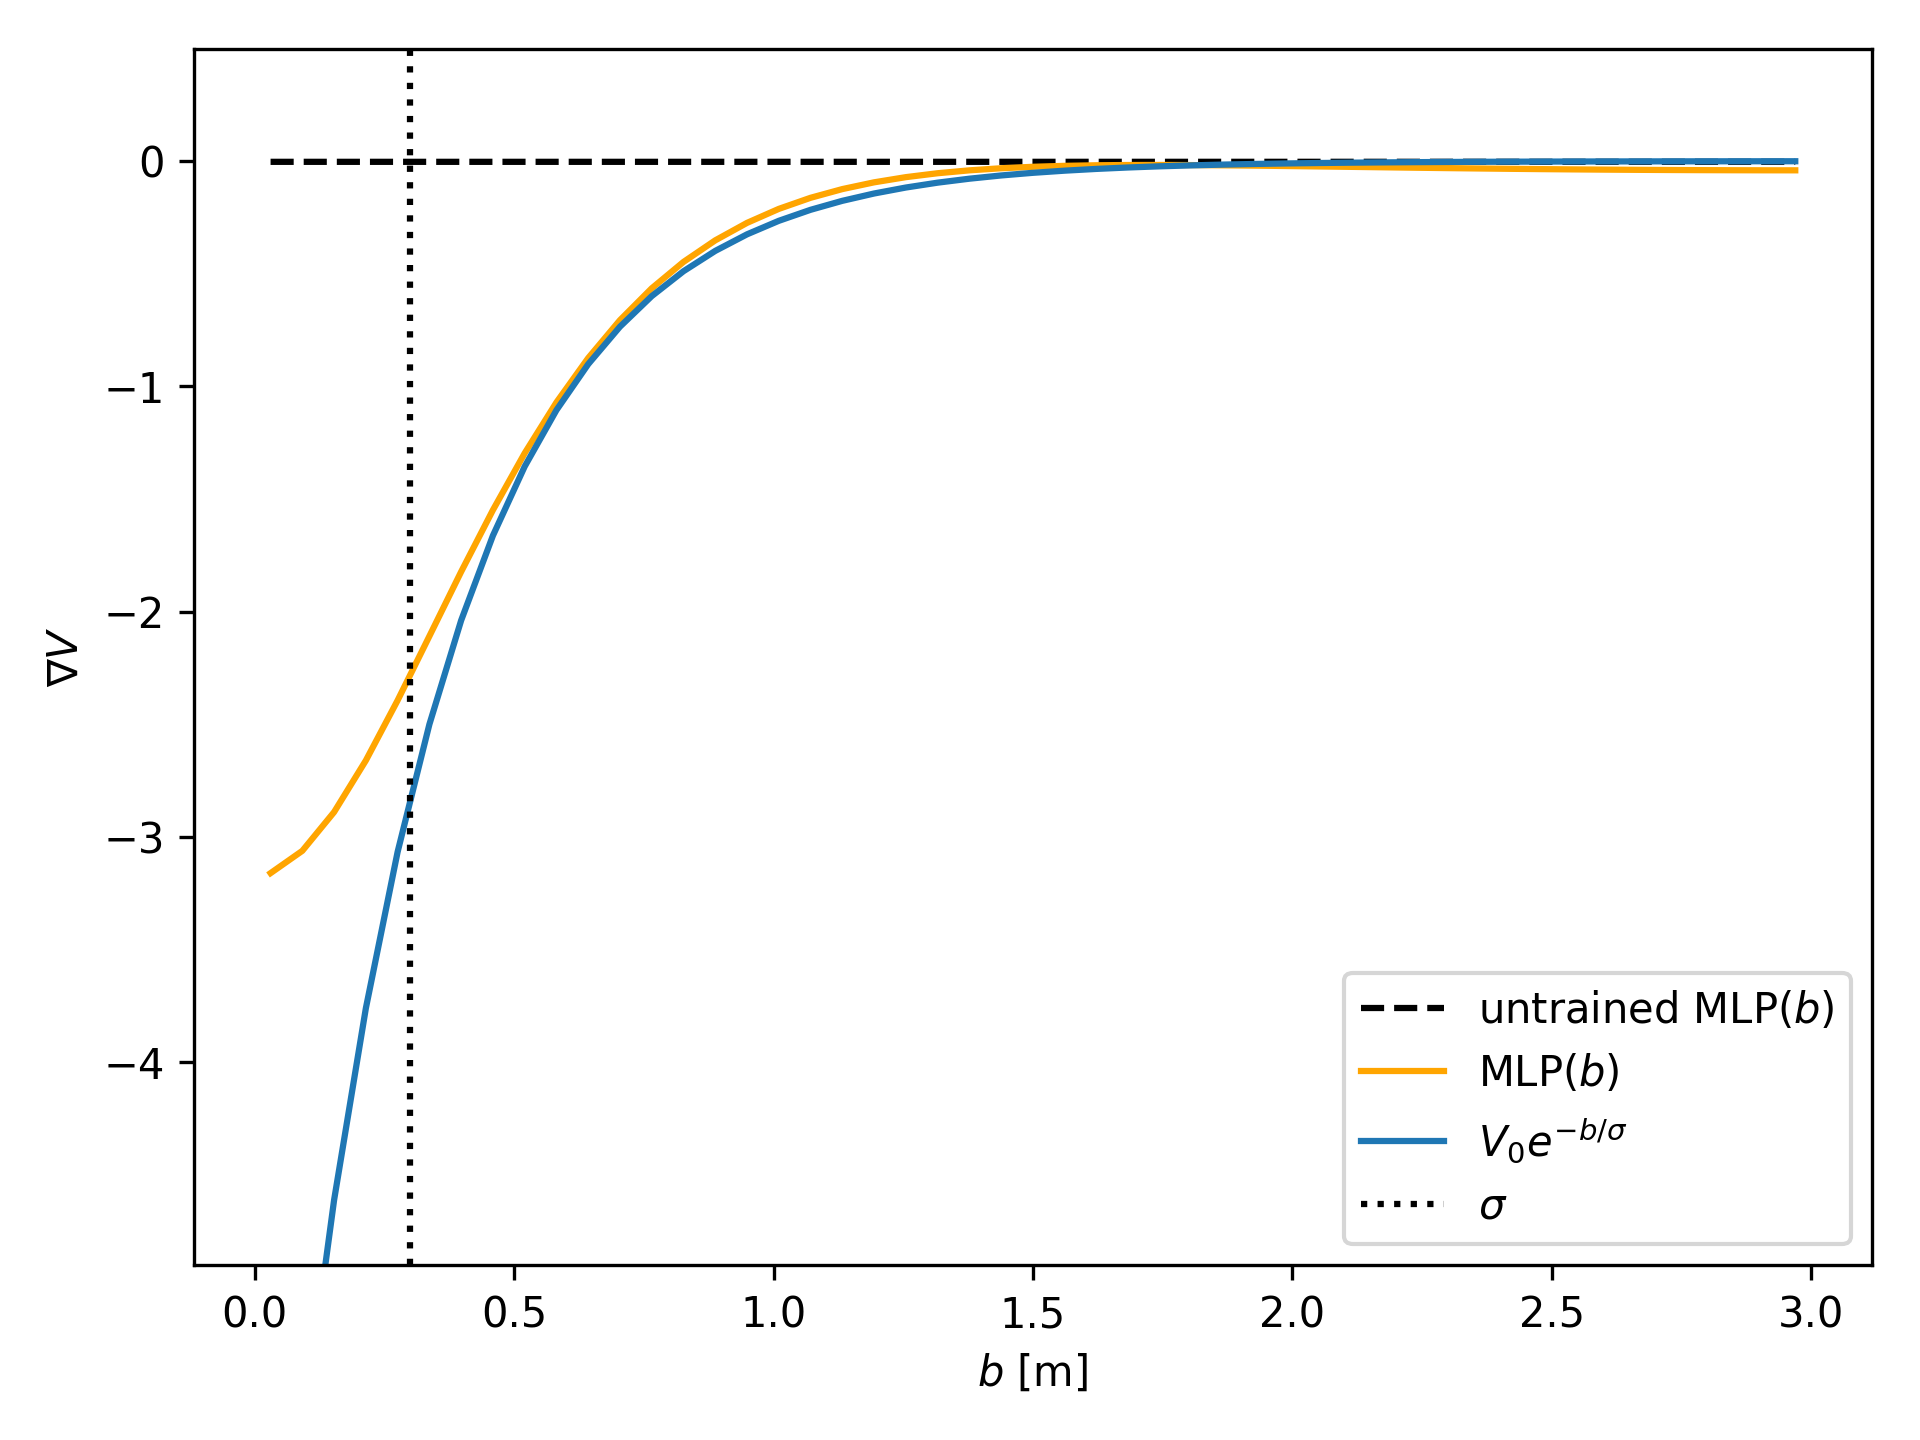
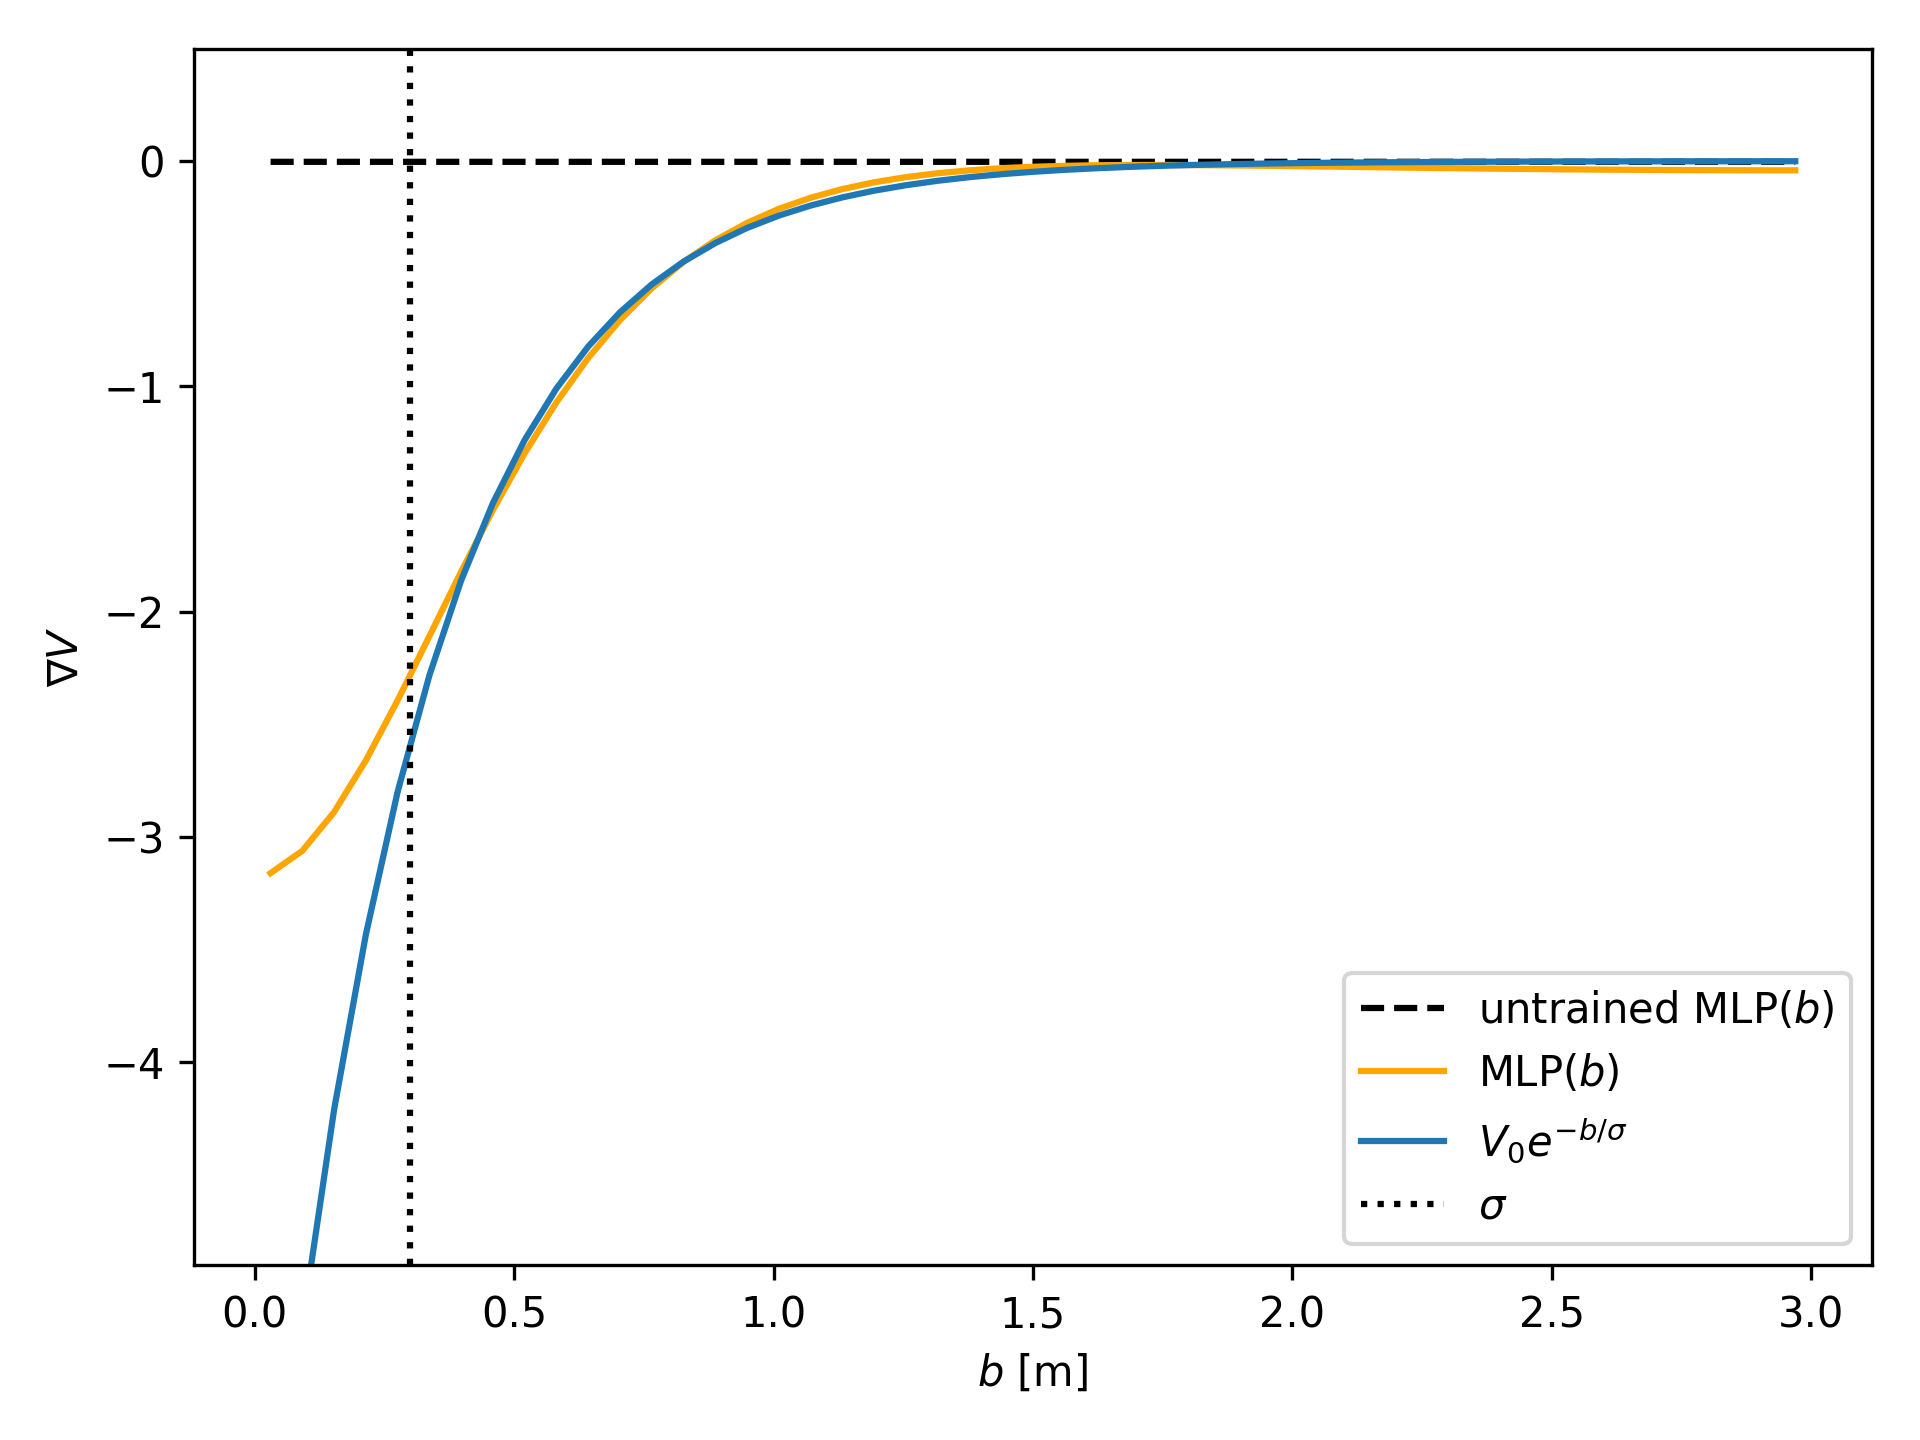
fix V0 for reference MLP

Changed region(s): [[0.1562, 0.375, 0.25, 0.875], [0.25, 0.1562, 0.4062, 0.375], [0.4062, 0.125, 0.4688, 0.1562]]

diff --git a/tests/fit_pedped.py b/tests/fit_pedped.py
@@ -1,8 +1,42 @@
-import matplotlib.pyplot as plt
 import numpy as np
 import torch
 import scipy.optimize
 import socialforce
+
+
+def visualize(file_prefix, V, initial_parameters, fit_result):
+    b = np.linspace(0, 3)
+    y_ref = 2.1 * np.exp(-1.0 * b / 0.3)
+    V.set_parameters(torch.tensor(initial_parameters))
+    y_initial = V.value_b(torch.from_numpy(b).float()).detach().numpy()
+    V.set_parameters(torch.tensor(fit_result.x))
+    y_mlp = V.value_b(torch.from_numpy(b).float()).detach().numpy()
+
+    with socialforce.show.graph(file_prefix + 'v.png') as ax:
+        ax.set_xlabel('$b$ [m]')
+        ax.set_ylabel('$V$')
+        ax.plot(b, y_ref, label=r'$V_0 e^{-b/\sigma}$', color='C0')
+        ax.axvline(0.3, color='black', linestyle='dotted', label=r'$\sigma$')
+        ax.plot(b, y_initial, label=r'untrained MLP($b$)',
+                linestyle='dashed', color='black')
+        ax.plot(b, y_mlp, label=r'MLP($b$)', color='orange')
+        ax.legend()
+
+    with socialforce.show.graph(file_prefix + 'gradv.png') as ax:
+        ax.set_xlabel(r'$b$ [m]')
+        ax.set_ylabel(r'$\nabla V$')
+        delta_b = b[1:] - b[:-1]
+        average_b = 0.5 * (b[:-1] + b[1:])
+        ax.plot(average_b, (y_initial[1:] - y_initial[:-1]) / delta_b,
+                label=r'untrained MLP($b$)',
+                linestyle='dashed', color='black')
+        ax.plot(average_b, (y_mlp[1:] - y_mlp[:-1]) / delta_b,
+                label=r'MLP($b$)', color='orange')
+        ax.plot(average_b, (y_ref[1:] - y_ref[:-1]) / delta_b,
+                label=r'$V_0 e^{-b/\sigma}$', color='C0')
+        ax.axvline(0.3, color='black', linestyle='dotted', label=r'$\sigma$')
+        ax.set_ylim(-4.9, 0.5)
+        ax.legend()
 
 
 def test_opposing():
@@ -28,7 +62,7 @@ def test_opposing():
         return loss
 
     parameters = np.array([1.2, 0.1])
-    res = scipy.optimize.minimize(f, parameters, method='BFGS', options={'eps': 1e-3})
+    res = scipy.optimize.minimize(f, parameters, method='L-BFGS-B', options={'eps': 1e-4})
     print(res)
 
 
@@ -68,35 +102,4 @@ def test_opposing_mlp():
     print(res)
 
     # make plots of result
-    b = np.linspace(0, 3)
-    y_ref = 2.3 * np.exp(-1.0 * b / 0.3)
-    V.set_parameters(torch.tensor(initial_parameters))
-    y_initial = V.value_b(torch.from_numpy(b).float()).detach().numpy()
-    V.set_parameters(torch.tensor(res.x))
-    y_mlp = V.value_b(torch.from_numpy(b).float()).detach().numpy()
-
-    with socialforce.show.graph('docs/mlp_v.png') as ax:
-        ax.set_xlabel('$b$ [m]')
-        ax.set_ylabel('$V$')
-        ax.plot(b, y_ref, label=r'$V_0 e^{-b/\sigma}$', color='C0')
-        ax.axvline(0.3, color='black', linestyle='dotted', label=r'$\sigma$')
-        ax.plot(b, y_initial, label=r'untrained MLP($b$)',
-                linestyle='dashed', color='black')
-        ax.plot(b, y_mlp, label=r'MLP($b$)', color='orange')
-        ax.legend()
-
-    with socialforce.show.graph('docs/mlp_gradv.png') as ax:
-        ax.set_xlabel(r'$b$ [m]')
-        ax.set_ylabel(r'$\nabla V$')
-        delta_b = b[1:] - b[:-1]
-        average_b = 0.5 * (b[:-1] + b[1:])
-        ax.plot(average_b, (y_initial[1:] - y_initial[:-1]) / delta_b,
-                label=r'untrained MLP($b$)',
-                linestyle='dashed', color='black')
-        ax.plot(average_b, (y_mlp[1:] - y_mlp[:-1]) / delta_b,
-                label=r'MLP($b$)', color='orange')
-        ax.plot(average_b, (y_ref[1:] - y_ref[:-1]) / delta_b,
-                label=r'$V_0 e^{-b/\sigma}$', color='C0')
-        ax.axvline(0.3, color='black', linestyle='dotted', label=r'$\sigma$')
-        ax.set_ylim(-4.9, 0.5)
-        ax.legend()
+    visualize('docs/mlp_', V, initial_parameters, res)
